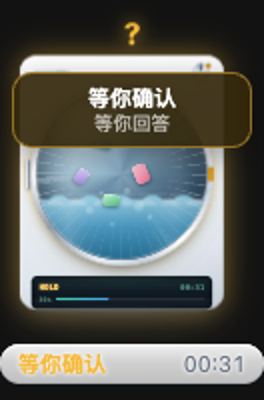
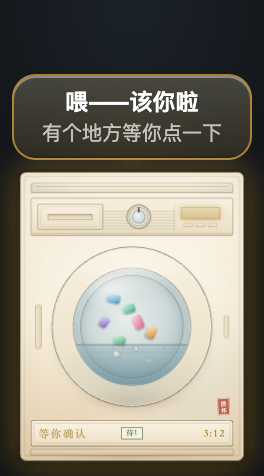
docs: 重出四张浮窗配图（四套皮肤 + 黑条 + 液态玻璃气泡）

diff --git a/README.md b/README.md
@@ -7,13 +7,13 @@
 其余时间它安静地转，你去做别的事。
 
 <p>
-<img src="docs/float-washing.png" width="112" alt="洗涤中：模型在出字">
-<img src="docs/float-rinsing.png" width="112" alt="漂洗中：工具在跑">
-<img src="docs/float-waiting.png" width="112" alt="等你确认：在等你批准或回答">
-<img src="docs/float-done.png" width="112" alt="洗完了：本轮结束">
+<img src="docs/float-washing.png" width="132" alt="精密家电 · 洗涤中：模型在出字">
+<img src="docs/float-rinsing.png" width="132" alt="复古奶油 · 漂洗中：工具在跑">
+<img src="docs/float-waiting.png" width="132" alt="工笔重彩 · 等你确认：在等你批准或回答">
+<img src="docs/float-done.png" width="132" alt="太空舱 · 洗完了：本轮结束">
 </p>
 
-<sub>洗涤中 · 漂洗中 · 等你确认 · 洗完了</sub>
+<sub>四套皮肤（依次）：精密家电 · 洗涤中 ｜ 复古奶油 · 漂洗中 ｜ 工笔重彩 · 等你确认 ｜ 太空舱 · 洗完了（带液态玻璃气泡）</sub>
 
 ## 为什么值得装
 
